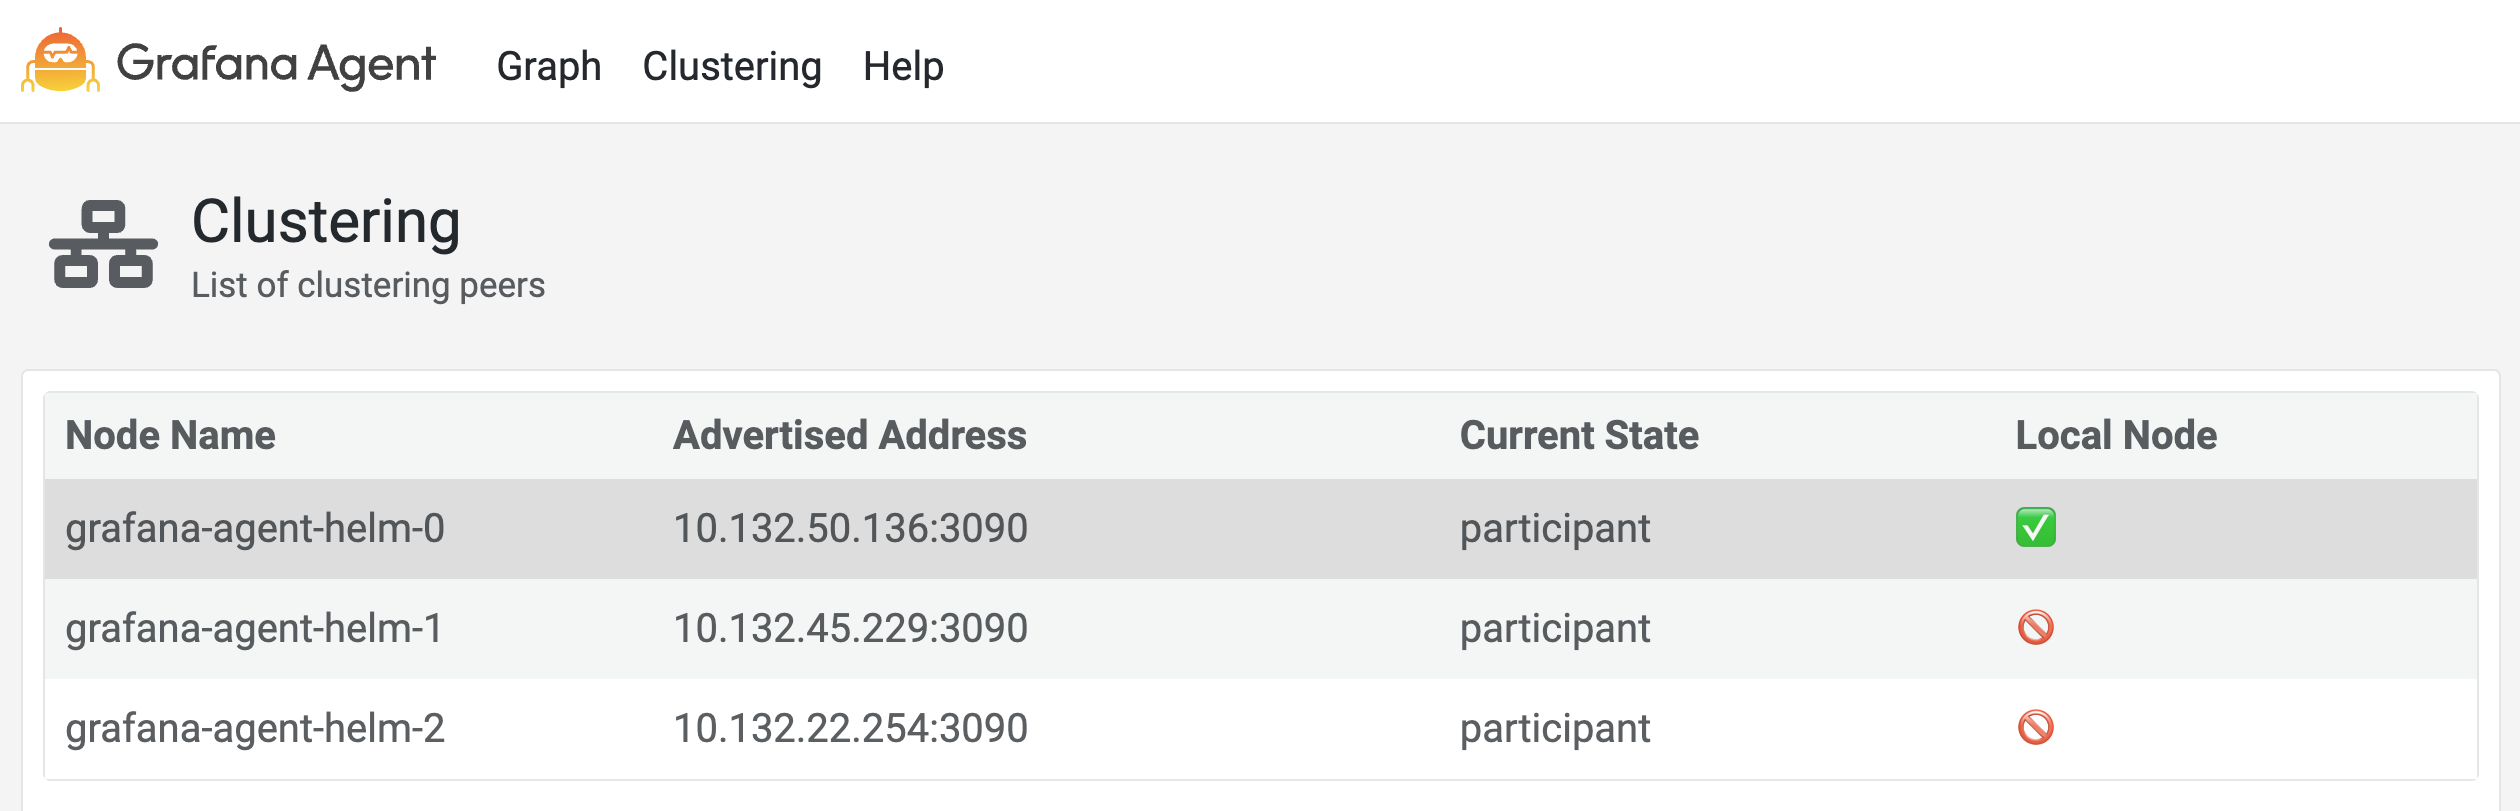
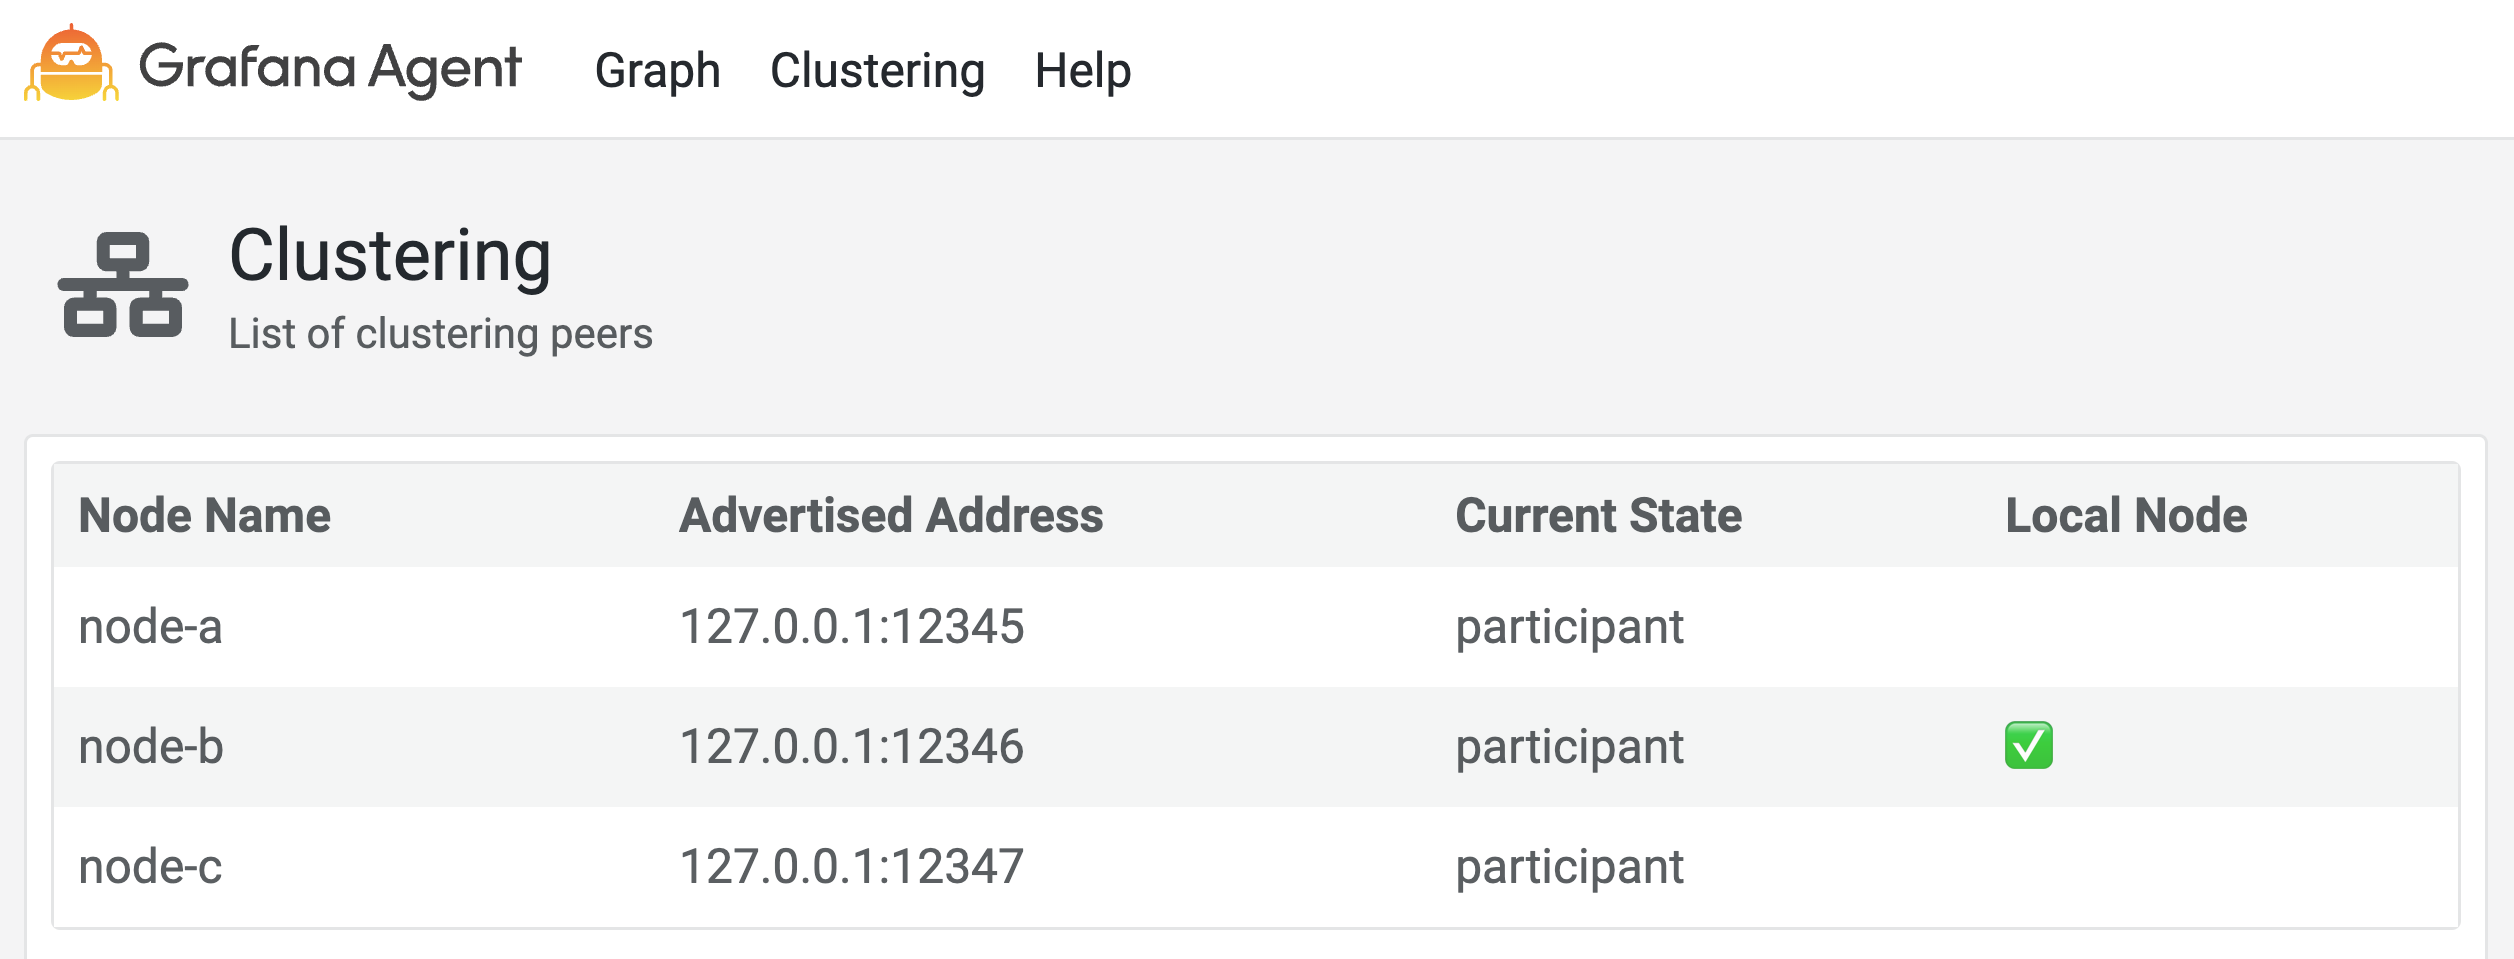
Add an example for a local cluster; fix STOP emoji in clustering UI page

diff --git a/web/ui/src/features/clustering/PeerList.tsx b/web/ui/src/features/clustering/PeerList.tsx
@@ -29,7 +29,7 @@ const PeerList = ({ peers }: PeerListProps) => {
           <span className={styles.idName}>{state}</span>
         </td>
         <td>
-          <span> {isSelf ? '✅' : '🚫'}</span>
+          <span> {isSelf ? '✅' : ' '}</span>
         </td>
       </tr>
     ));

diff --git a/docs/sources/flow/concepts/clustering.md b/docs/sources/flow/concepts/clustering.md
@@ -50,7 +50,7 @@ This is in contrast to hashmod sharding where up to 100% of the targets could
 be reassigned to another node and possibly cause system instability.
 
 As such, target auto-distribution not only allows to dynamically scale the
-number of agents to distribute workloads during peaks, but also provides
+number of agents to distribute workload during peaks, but also provides
 resiliency, since in the event of a node going away, its targets are
 automatically picked up by one of their peers. Again, this is in contrast to
 hashmod sharding which requires running multiple replicas of each shard for HA.
@@ -72,7 +72,40 @@ prometheus.scrape "default" {
 }
 ```
 
-## Clustering example using Helm
+## Local clustering example
+
+The following commands bootstrap a three-node local cluster
+```
+# node-a (seed node)
+$ ./build/grafana-agent-flow \
+    --server.http.listen-addr=0.0.0.0:12345 \
+    --cluster.enabled --cluster.node-name=node-a\
+    --cluster.advertise-address=localhost:12345 \
+    run local-clustering.river
+
+# node-b
+$ ./build/grafana-agent-flow \
+    --server.http.listen-addr=0.0.0.0:12346 \
+    --cluster.enabled --cluster.node-name=node-b \
+    --cluster.advertise-address=localhost:12346 \
+    --cluster.join-addresses=localhost:12345 \
+    run local-clustering.river
+
+# node-c
+$ ./build/grafana-agent-flow \
+    --server.http.listen-addr=0.0.0.0:12347 \
+    --cluster.enabled --cluster.node-name=node-c \
+    --cluster.advertise-address=localhost:12347 \
+    --cluster.join-addresses=localhost:12345,localhost:12346 \
+    run local-clustering.river
+```
+
+The clustering UI page of each node will provide information about the status
+of its peers and the details page of the each node's `prometheus.scrape`
+component will point to which target is being scraped by that node in its
+Debug Info.
+
+## Helm chart clustering example
 
 The easiest way to deploy an agent cluster is by making use of our
 [Helm chart][]. Here's an example of how to achieve that.
@@ -107,14 +140,6 @@ agent:
     requests:
       cpu: 100m
       memory: 200Mi
-
-rbac:
-  # -- Whether to create RBAC resources for the agent.
-  create: true
-
-serviceAccount:
-  # -- Whether to create a service account for the Grafana Agent deployment.
-  create: true
 
 controller:
   type: 'statefulset'
